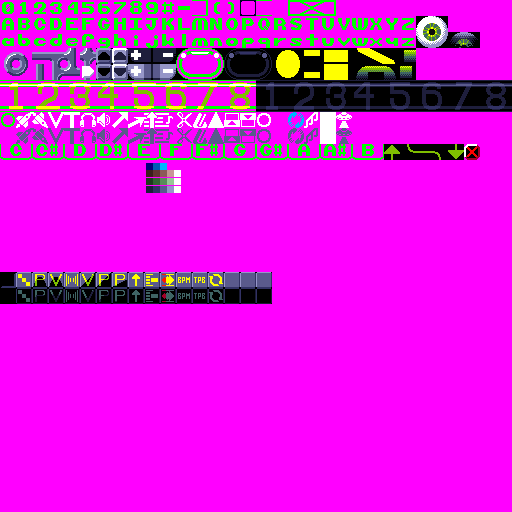
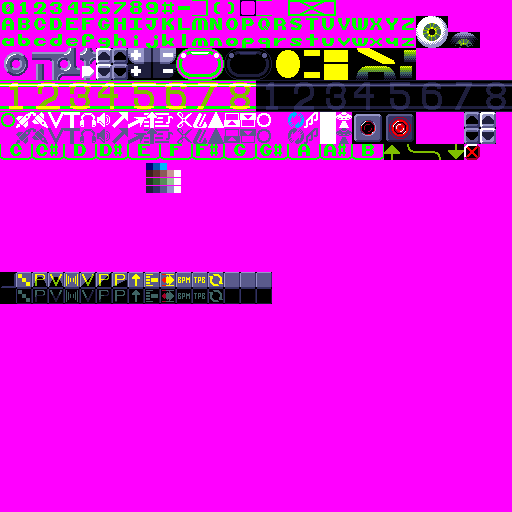
Add files via upload

Changed region(s): [[0.1875, 0.0938, 0.3438, 0.1562], [0.6875, 0.2188, 0.8125, 0.2812], [0.9062, 0.2188, 0.9688, 0.2812]]

diff --git a/SongHandling.cpp b/SongHandling.cpp
@@ -35,6 +35,11 @@ ma_engine_config engineConfig;
 ma_sound channelAudio[8];
 
 
+///////////////////////////////////////////////////// For recording
+
+
+
+
 
 
 // Pitch lookup table
@@ -163,9 +168,18 @@ void StartSample(int channel, int sampleNumber, float pitch, float time)
 
 
     ma_sound_uninit(&channelAudio[channel]);
+
+    
+
     ma_sound_init_from_file(&engine, name, MA_SOUND_FLAG_NO_SPATIALIZATION, NULL, NULL, &channelAudio[channel]);
 
-    ma_sound_set_start_time_in_milliseconds(&channelAudio[channel], time);
+    //ma_sound_stop(&channelAudio[channel]);
+
+    //ma_sound_set_start_time_in_milliseconds(&channelAudio[channel], float(time) * 100.0f);
+    //ma_sound_set_start_time_in_pcm_frames(&channelAudio[channel], float(time) * 10000.0f);
+    //ma_sound_set_start_time_in_milliseconds(&channelAudio[channel], time);
+
+    
 
     ma_sound_start(&channelAudio[channel]);
 
@@ -178,18 +192,22 @@ void StartSample(int channel, int sampleNumber, float pitch, float time)
 
 
     
-    /*
-    if (channels[channel].effect == 10) // Sample offset
-    {
-        ma_sound_set_start_time_in_milliseconds(&channelAudio[channel], channels[channel].effectX);
-    }*/
+    
+    
 
     // Pith shift by interpolating pitch every frame.
     //ma_sound_set_pan(&channelAudio[channel], 1);
     //ma_sound_set_looping(&channels[channel], true);
     //ma_sound_set_volume(&channelAudio[channel], songPlaying.channels[channel].channelVolume);
 
+    if (channels[channel].volume > 1)
+        channels[channel].volume = 1;
+
+
     ma_sound_set_volume(&channelAudio[channel], channels[channel].volume);
+
+
+    
 
     
 
@@ -296,9 +314,9 @@ void stepSong()
             loadedSong.toNextChannelVolume[ch]--;
             loadedSong.toNextChannelEffect[ch]--;
 
-            
-            
-            
+
+
+
             if (loadedSong.toNextChannelVolume[ch] < 0) // Read next volume.
             {
                 if (volumeIndex < loadedSong.frames[loadedSong.frameSequence[loadedSong.currentFrame]].channels[ch].volumes.size())
@@ -339,9 +357,58 @@ void stepSong()
                         channels[ch].effectX = effectValue / 16;
                         channels[ch].effectY = effectValue % 16;
                     }
+                    else if (effect == 8) // Jump to frame.
+                    {
+                        if (effectValue >= loadedSong.frameSequence.size())
+                            effectValue = loadedSong.frameSequence.size() - 1;
+                        loadedSong.currentFrame = effectValue;
+                        loadedSong.currentNote = 0;
+
+                        loadCurrentFrame();
+
+                        // Reset frame values.
+                        loadedSong.timeInNote = 0;
+                        loadedSong.timeInTick = 0;
+                        loadedSong.timeInSong = 0;
+                        frameScroll = 0.0f;
+
+                        for (int ch = 0; ch < 8; ch++)
+                        {
+                            loadedSong.noteChannelIndex[ch] = 0;
+                            loadedSong.volumeChannelIndex[ch] = 0;
+                            loadedSong.effectChannelIndex[ch] = 0;
+                            loadedSong.toNextChannelNote[ch] = 0;
+                            loadedSong.toNextChannelVolume[ch] = 0;
+                            loadedSong.toNextChannelEffect[ch] = 0;
+                        }
+
+                        loadedSong.toNextChannelNote[ch] = loadedSong.frames[loadedSong.frameSequence[loadedSong.currentFrame]].channels[ch].notes[0];
+                        loadedSong.noteChannelIndex[ch]++;
+                        noteIndex++;
+                        loadedSong.toNextChannelVolume[ch] = loadedSong.frames[loadedSong.frameSequence[loadedSong.currentFrame]].channels[ch].volumes[0];
+                        loadedSong.volumeChannelIndex[ch]++;
+                        volumeIndex++;
+                        loadedSong.toNextChannelEffect[ch] = loadedSong.frames[loadedSong.frameSequence[loadedSong.currentFrame]].channels[ch].effects[0];
+                        loadedSong.effectChannelIndex[ch]++;
+                        effectIndex++;
+                        loadedSong.currentNote = 0;
+                    }
+                    else if (effect == 10) // Set sample position.
+                    {
+                        ma_sound_seek_to_pcm_frame(&channelAudio[ch], float(effectValue) * 100000.0f * (1000.0f / ma_engine_get_sample_rate(&engine)));
+                        channels[ch].effectX = effectValue;
+                    }
+                    else if (effect == 11) // Set BPM.
+                    {
+                        loadedSong.bpm = effectValue;
+                    }
+                    else if (effect == 12) // Set TPB.
+                    {
+                        loadedSong.ticksPerBeat = effectValue;
+                    }
                     else // 1-parameter effects.
                         channels[ch].effectX = effectValue;
-                    
+
 
                     if (effectIndex < loadedSong.frames[loadedSong.frameSequence[loadedSong.currentFrame]].channels[ch].effects.size())
                     {
@@ -363,18 +430,29 @@ void stepSong()
                     channels[ch].pitch = note;
 
                     int instrument = loadedSong.frames[loadedSong.frameSequence[loadedSong.currentFrame]].channels[ch].notes[noteIndex];
+                    channels[ch].instrument = instrument;
                     loadedSong.noteChannelIndex[ch]++;
                     noteIndex++;
 
                     if (note == 255)
                         StopSample(ch);
-                    else
+                    else if (channels[ch].effect != 9) // Don't play delayed notes.
+                    {
                         StartSample(ch, instrument, note, 0);
+
+
+                        if (channels[ch].effect == 10) // Set sample position.
+                        {
+                            ma_sound_seek_to_pcm_frame(&channelAudio[ch], channels[ch].effectX * 100000.0f * (1000.0f / ma_engine_get_sample_rate(&engine)));
+                        }
+                    }
 
                     // Set distance to next note.
                     if (noteIndex < loadedSong.frames[loadedSong.frameSequence[loadedSong.currentFrame]].channels[ch].notes.size())
                     {
+                        float pastNote = loadedSong.toNextChannelNote[ch];
                         loadedSong.toNextChannelNote[ch] = loadedSong.frames[loadedSong.frameSequence[loadedSong.currentFrame]].channels[ch].notes[noteIndex];
+                        loadedSong.toNextChannelNote[ch] += pastNote + 1;
                         loadedSong.noteChannelIndex[ch]++;
                     }
                     else
@@ -426,6 +504,16 @@ void stepSong()
                 channels[ch].effectX = channels[ch].effectX - channels[ch].effectY;
                 channels[ch].effectY = -channels[ch].effectY;
                 ma_sound_set_pitch(&channelAudio[ch], pitchTable[int(channels[ch].pitch)]);
+            }
+            else if (channels[ch].effect == 9) // Delayed note
+            {
+                channels[ch].effectX--;
+                
+                if (channels[ch].effectX <= 0)
+                {
+                    StartSample(ch, channels[ch].instrument, channels[ch].pitch, 0);
+                    channels[ch].effect = -1;
+                }
             }
         }
     }

diff --git a/Structures.cpp b/Structures.cpp
@@ -28,6 +28,9 @@ struct Channel
 	float effectY = 0; // The second effect parameter for effects that use two.
 	float pitch = 0;
 	float realPitch = 0;
+	float instrument = 0;
+
+
 
 
 	std::vector <int> loopNoteIndex = {};
@@ -110,9 +113,9 @@ struct Song
 	float timeInSong = 0;
 
 
-	int toNextChannelNote[8] = { 0, 0, 0, 0, 0, 0, 0, 0 };
-	int toNextChannelVolume[8] = { 0, 0, 0, 0, 0, 0, 0, 0 };
-	int toNextChannelEffect[8] = { 0, 0, 0, 0, 0, 0, 0, 0 };
+	float toNextChannelNote[8] = { 0, 0, 0, 0, 0, 0, 0, 0 };
+	float toNextChannelVolume[8] = { 0, 0, 0, 0, 0, 0, 0, 0 };
+	float toNextChannelEffect[8] = { 0, 0, 0, 0, 0, 0, 0, 0 };
 
 	int noteChannelIndex[8] = { 0, 0, 0, 0, 0, 0, 0, 0 };
 	int volumeChannelIndex[8] = { 0, 0, 0, 0, 0, 0, 0, 0 };
@@ -125,72 +128,77 @@ struct Song
 
 // -1 - No effect:
 
-// 0 - Cosmic Arp: (Done)
+// 0 - Cosmic Arp:
 //		Play alternating notes every tick, between the base note and the two offsets.
 //		-x = semitone offset 1
 //		-y = semitone offset 2
 
-// 1 - Vibrato: (Done)
+// 2 - Vibrato:
 //		Change the note pitch over time.
 //		-x = speed (1 cycle in x loops)
 //		-y = depth (y/4 semitones)
 
-// 2 - Tremolo: (Done)
+// 3 - Tremolo:
 //		Change the note volume over time.
 //		-x = speed (1 cycle in x loops)
 //		-y = depth (y/4 semitones)
 
-// 3 - Set Panning: (Done)
+// 4 - Set Panning:
 //		Set the stereo panning position from 00(Left) to FF(Right).
 //		-xy = position
 
-// 4 - Volume Slide: (Done)
+// 5 - Volume Slide:
 //		Slide the volume up by x speed or down by y speed.
 //		-x = volume up (x/4 semitones per beat)
 //		-y = volume down (x/4 semitones per beat)
 
-// 5 - Pitch Slide: (done)
+// 6 - Pitch Slide:
 //		Slide the pitch up by x speed or down by y speed.
 //		-x = pitch up (x semitones per beat)
 //		-y = pitch down (x semitones per beat)
 
-// 6 - Pitch Slide (fine): (done)
+// 7 - Pitch Slide (fine):
 //		Slide the pitch up by x speed or down by y speed.
 //		-x = speed up (x/4 semitones per beat)
 //		-y = speed down (x/4 semitones per beat)
 
-// 7 - Jump to frame:
+// 8 - Jump to frame:
 //		Jump the the specified frame.
 //		-xx = frame
 
-// 8 - Note delay:
+// 9 - Note delay:
 //		Start the note late, after x ticks.
 //		-xx = ticks
 
-// 9 - Sample offset:
+// 10 - Sample offset:
 //		Offset the sample starting on the beat by x ticks.
 //		-xx = ticks
 
-// A - Set BPM:
+// 11 - Set BPM:
 //		Set the song BPM to x.
 //		-xx = BPM
 
-// B - Set TPB:
+// 12 - Set TPB:
 //		Set the song TPB to x.
 //		-xx = TPB
 
-// C - Low Pass:
+
+/////////////////////////////////////////// FUTURE
+
+
+
+// 13 - Low Pass:
 //		A Low pass filter.
 //		-xx size.
 // 
-// D - High Pass:
+// 14 - High Pass:
 //		A High pass filter.
 //		-xx size.
 // 
-// E - Loop section:
+// 15 - Loop section:
 //		Loop the next x beats y times.
 //		Other notes, instruments, volumes and effects play over the repeated beats and take priority.
 //		The loop ends when another loop effect is encountered. (A loop of length 0 stops loops entirely).
 //		-xx = Number of beats.
 
-// F - (To be decided)
+// 16 - (To be decided)

diff --git a/Main.cpp b/Main.cpp
@@ -488,6 +488,7 @@ void key_callback(GLFWwindow* window, int key, int scancode, int action, int mod
                 frameScroll = 0.0f;
                 for (int ch = 0; ch < 8; ch++)
                 {
+                    channels[ch].volume = 1;
                     channels[ch].effect = -1;
                     channels[ch].effectX = 0;
                     channels[ch].effectY = 0;
@@ -498,6 +499,14 @@ void key_callback(GLFWwindow* window, int key, int scancode, int action, int mod
                     loadedSong.toNextChannelNote[ch] = 0;
                     loadedSong.toNextChannelVolume[ch] = 0;
                     loadedSong.toNextChannelEffect[ch] = 0;
+                }
+            }
+            else
+            {
+                for (int ch = 0; ch < 8; ch++)
+                {
+                    channels[ch].volume = 0;
+                    ma_sound_set_volume(&channelAudio[ch], channels[ch].volume);
                 }
             }
         }
@@ -916,6 +925,11 @@ void pressButton()
 
     selectedTile = hoveredTile; // Select the tile that the mouse is currently on
 
+
+    if (hoveredTile.y > 9 && hoveredTile.y < 12 && hoveredTile.x > 23 && hoveredTile.x < 26) // Record
+    {
+        recordingSong = !recordingSong;
+    }
 
 
     if (hoveredTile.y > 12 && hoveredTile.y < 15 && hoveredTile.x > 3) // Mute/unmute

diff --git a/Draw.cpp b/Draw.cpp
@@ -238,6 +238,10 @@ void  DrawBorder()
 	DrawKey(16, 4, { 62, 10 });
 
 
+	
+
+
+
 	// File select box
 	for (int y = 3; y < 11; y++)
 	{
@@ -360,6 +364,15 @@ void  DrawBorder()
 	activeUI[logoX + 6][logoY].sprite = { 22, 4 };		activeUI[logoX + 7][logoY].sprite = { 23, 4 };			activeUI[logoX + 8][logoY].sprite = { 24, 4 };
 	activeUI[logoX + 9][logoY].sprite = { 22, 4 };																activeUI[logoX + 11][logoY].sprite = { 25, 4 };
 	activeUI[logoX + 12][logoY].sprite = { 25, 3 };		activeUI[logoX + 13][logoY].sprite = { 23, 4 };			activeUI[logoX + 14][logoY].sprite = { 24, 4 };
+
+
+	// Draw recording button
+	DrawText("Record", 22, 28, 9, 3, 0, -1, -1);
+	activeUI[24][10].sprite = { 22 + float(recordingSong) * 2, 7 };
+	activeUI[25][10].sprite = { 23 + float(recordingSong) * 2, 7 };
+	activeUI[24][11].sprite = { 22 + float(recordingSong) * 2, 8 };
+	activeUI[25][11].sprite = { 23 + float(recordingSong) * 2, 8 };
+
 
 	// Eye
 	/*

diff --git a/GlobalVariables.h b/GlobalVariables.h
@@ -15,6 +15,7 @@
 float delta = 0.0f; // Time between frames.
 
 bool playingSong = false;
+bool recordingSong = false;
 
 bool drawScreen = false;
 
